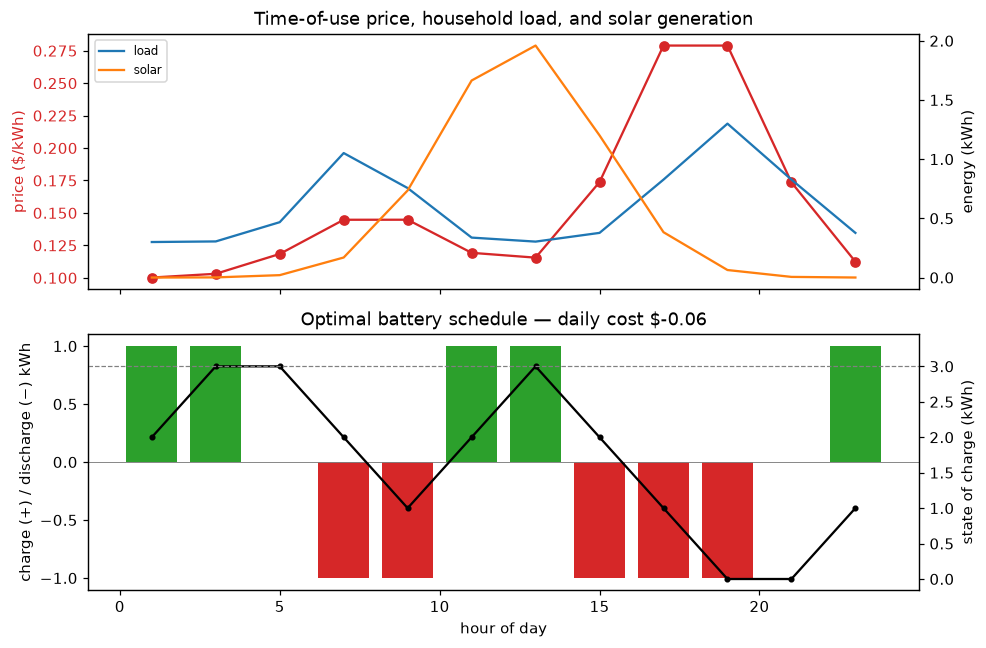
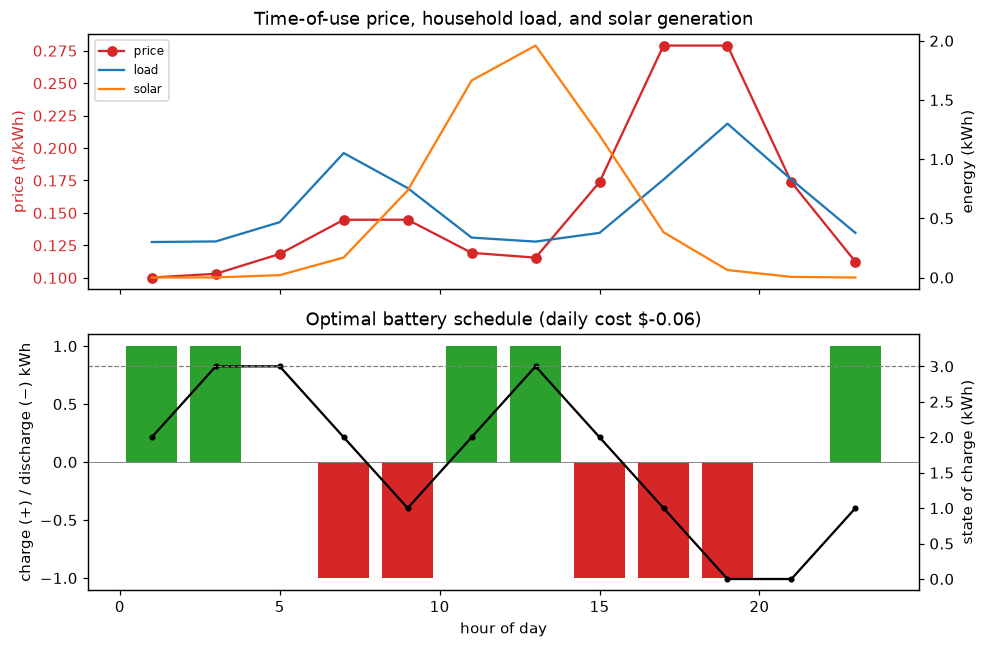
Include price in schedule legend; drop em dash from title

Changed region(s): [[0.3043, 0.463, 0.7302, 0.5247], [0.0913, 0.0617, 0.1826, 0.1543]]

diff --git a/src/quantum_solar/plotting.py b/src/quantum_solar/plotting.py
@@ -31,7 +31,9 @@ def plot_schedule(problem: BatteryProblem, solution: Solution):
     ax_energy.plot(hours, problem.load, color="C0", label="load")
     ax_energy.plot(hours, problem.generation, color="C1", label="solar")
     ax_energy.set_ylabel("energy (kWh)")
-    ax_energy.legend(loc="upper left", fontsize=8)
+    handles_p, labels_p = ax_top.get_legend_handles_labels()
+    handles_e, labels_e = ax_energy.get_legend_handles_labels()
+    ax_energy.legend(handles_p + handles_e, labels_p + labels_e, loc="upper left", fontsize=8)
     ax_top.set_title("Time-of-use price, household load, and solar generation")
 
     # Bottom: battery action bars (charge +, discharge −) with SoC overlaid.
@@ -46,7 +48,7 @@ def plot_schedule(problem: BatteryProblem, solution: Solution):
     ax_soc.set_ylim(-0.05 * problem.capacity, 1.15 * problem.capacity)
     ax_soc.set_ylabel("state of charge (kWh)")
     ax_bot.set_xlabel("hour of day")
-    ax_bot.set_title(f"Optimal battery schedule — daily cost ${solution.true_energy:.2f}")
+    ax_bot.set_title(f"Optimal battery schedule (daily cost ${solution.true_energy:.2f})")
 
     fig.tight_layout()
     return fig